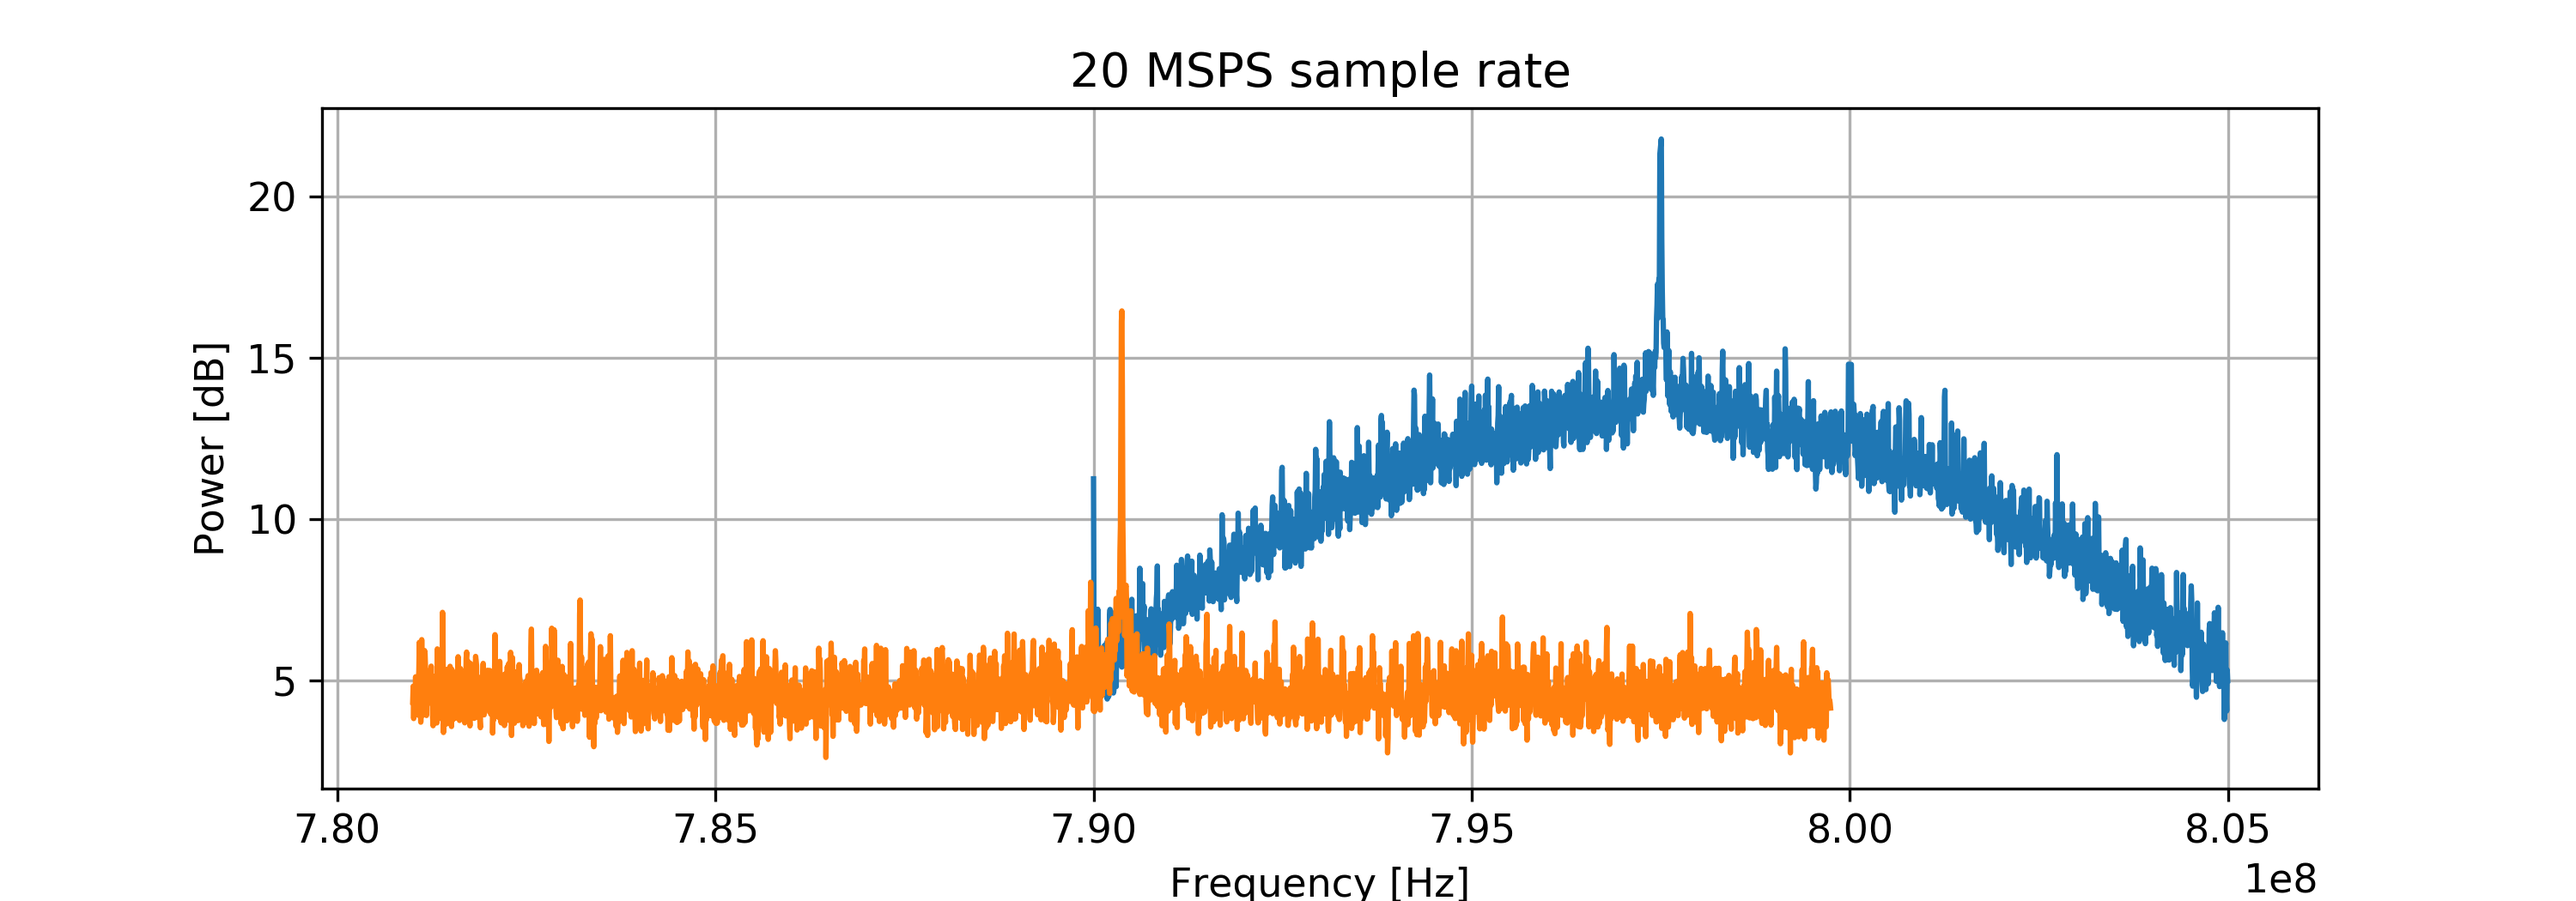
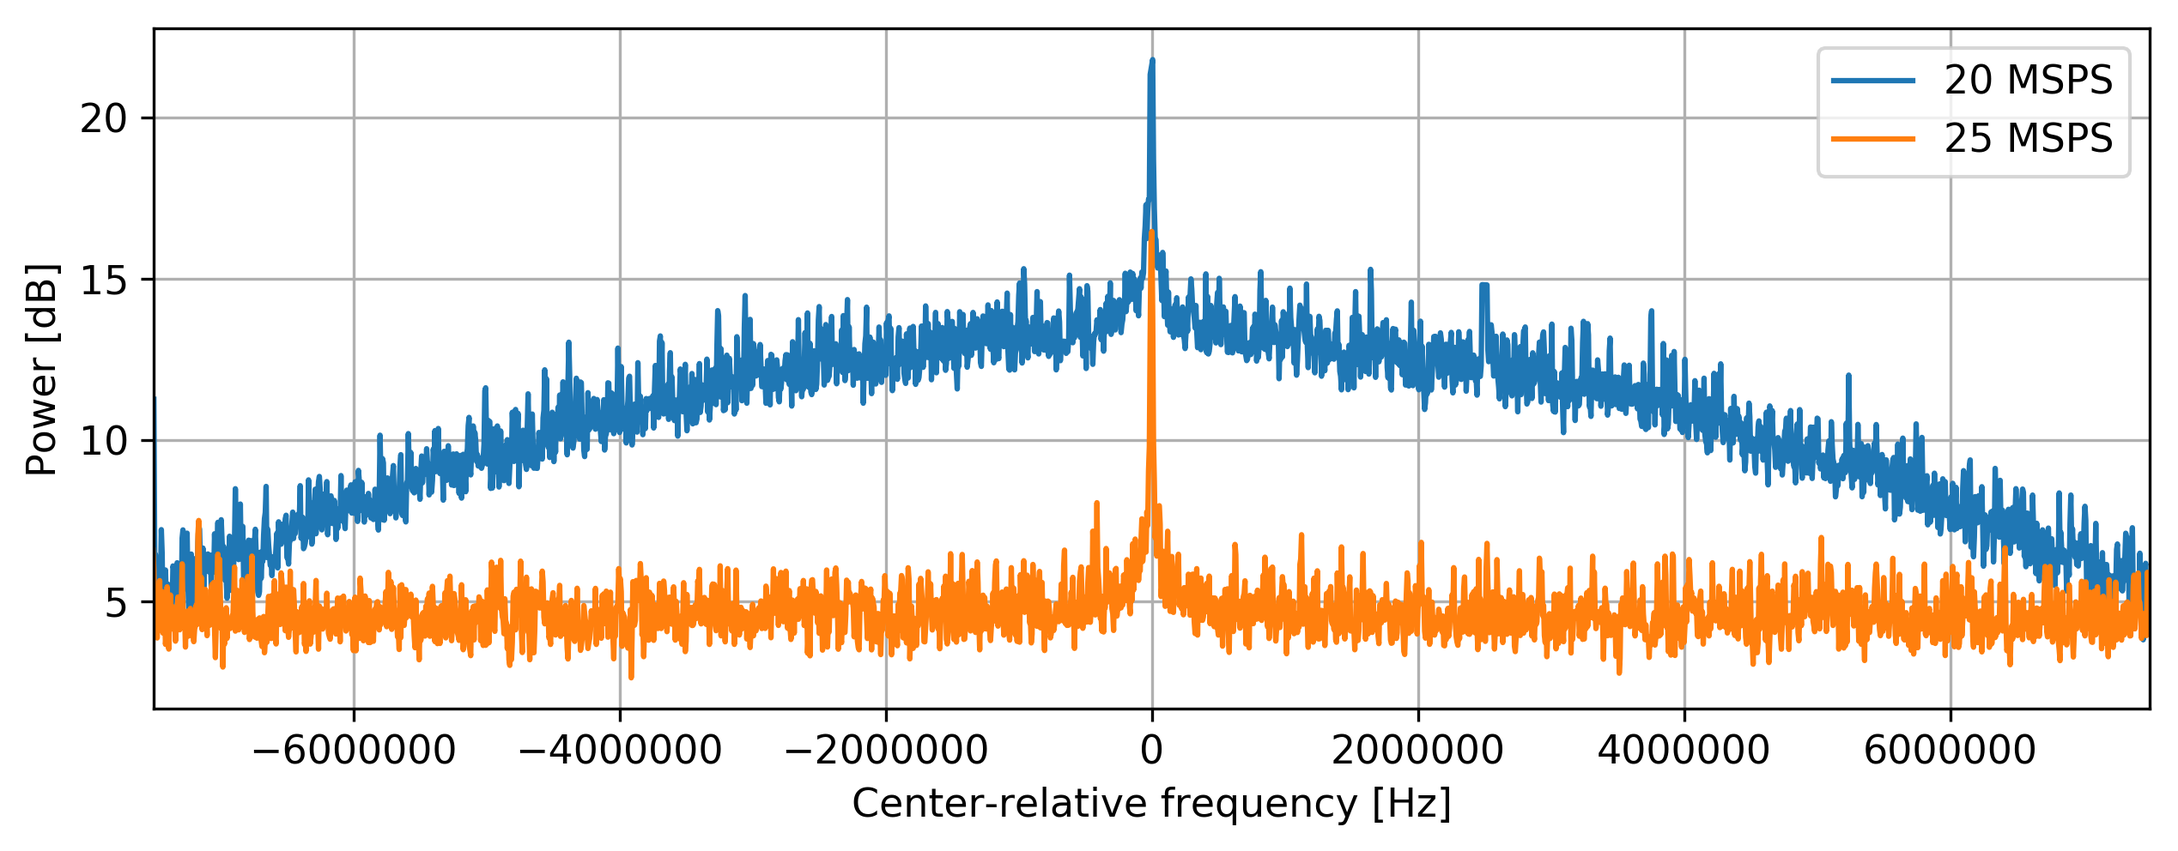
CIC: new superimposed figure

diff --git a/doc/list-of-abbreviations.tex b/doc/list-of-abbreviations.tex
@@ -14,7 +14,7 @@
 \item[]  \itab{LNA}    \tab{low noise amplifier}
 \item[]  \itab{LO}   \tab{local oscillator}
 \item[]  \itab{LSA}    \tab{Licensed Shared Access}
-\item[]  \itab{MSPS}   \tab{mega samples per second}
+\item[]  \itab{MSPS}   \tab{mega-samples per second}
 \item[]  \itab{OFDM}   \tab{orthogonal frequency-division multiplexing}
 \item[]  \itab{PHY}    \tab{physical layer}
 \item[]  \itab{RF}     \tab{radio frequency}

diff --git a/doc/main.md b/doc/main.md
@@ -286,7 +286,7 @@ available sample rate, in this case, using 16-bit samples. Choosing a high sampl
 rate allows for measuring a wider band of the spectrum at once, which is desirable
 in the context of the spectrum monitoring application presented in this thesis.
 
-![Sample rates chosen to maximize (left) and minimize (right) the effect of CIC roll-off\label{fig:cic-rolloff}](img/cic-rollof-by-sample-rate.png){ width=100% }
+![Sample rates chosen to maximize (20 MSPS) and minimize (25 MSPS) the effect of CIC roll-off\label{fig:cic-rolloff}](img/cic-rollof-by-sample-rate-superpose.png){ width=100% }
 
 Measurement configuration:
 
@@ -388,14 +388,14 @@ Increasing the temporal resolution will increase the number of measurements, hen
 
 ![A mobile communications band not in use 100% of the time\label{fig:hist-mobile}](img/histogram-mobile.png){ width=100% }
 
-![Time-average of the power spectum shown as a histogram in figure \ref{fig:hist-mobile}\label{fig:avg-mobile}](img/mobile-average-spectrum.png){ width=100% }
+![Time-average of the measurements shown as a histogram in figure \ref{fig:hist-mobile}\label{fig:avg-mobile}](img/mobile-average-spectrum.png){ width=100% }
 
 
 Figure \ref{fig:hist-mobile} shows a measurement of a band of spectrum used for mobile communication.
 The power distribution shows a clearly visible noise floor within the
 allocated frequency band, which indicates that the frequencies are not
 constantly in use and there are periods of time where no signals are present. A running time-average of the spectrum, which typical in traditional spectrum analyzers, does not clearly show the partial absence of signals seen in this example. The intermittent use of the band shows up as lower average power, but the band still seems constantly occupied over time.
-Figure \ref{fig:hist-mobile} show the same specrtum measurement represented as a time-average plot
+Figure \ref{fig:avg-mobile} shows the same spectrum measurement represented as a time-average plot
 of the power.
 
 ![225 MHz span of spectum stiched from multiple measurements \label{fig:hist-long}](img/histogram-long.png){ width=100% }
@@ -469,7 +469,7 @@ for such interference.\cite{raman15}
 
 DC-offset is caused in the SDR peripheral's RF front-end and is hardware-dependent.
 The root causes for DC-offset cannot be corrected by choosing different digitizing
-parameter in the way eg. CIC roll-off can be, although they can be corrected for
+parameters in the way eg. CIC roll-off can be, although they can be corrected for
 using DSP after the fact.
 
 
